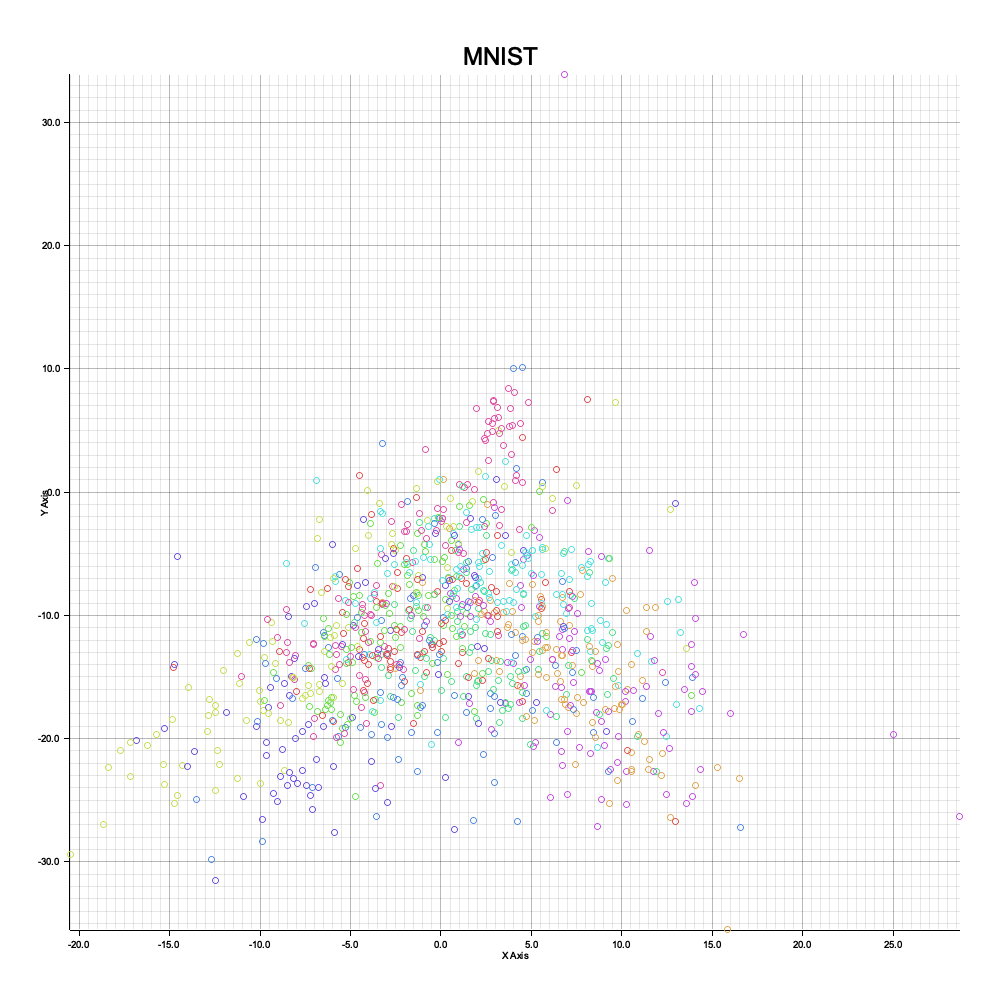
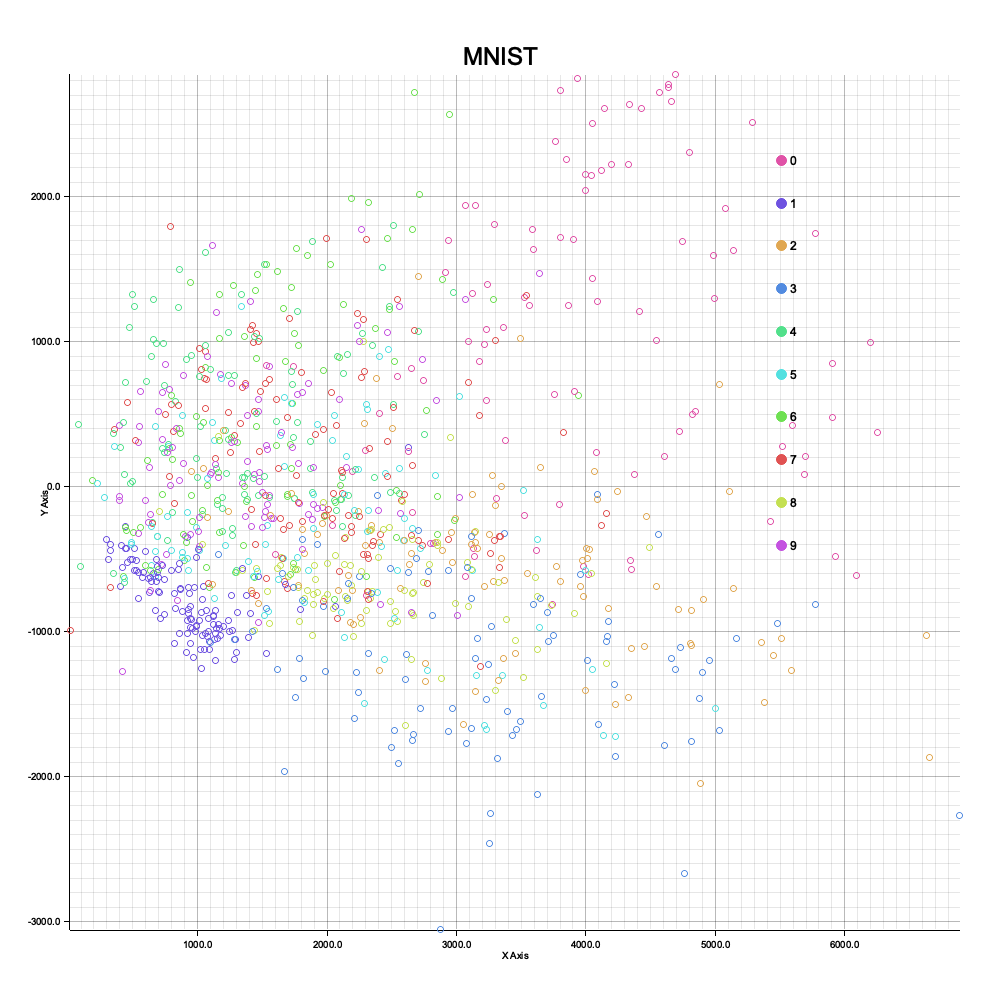
added legend to the mnist plot

Changed region(s): [[0.031, 0.062, 0.961, 0.961], [0.031, 0.186, 0.062, 0.217]]

diff --git a/src/chart.rs b/src/chart.rs
@@ -1,7 +1,11 @@
 use crate::utils::*;
 use burn::prelude::*;
 use hsl::HSL;
-use plotters::prelude::*;
+use plotters::{
+    prelude::*,
+    style::text_anchor::{HPos, Pos, VPos},
+};
+use std::collections::HashSet;
 
 /// The default caption for the chart
 const CAPTION: &str = "fast-umap";
@@ -176,8 +180,6 @@ where
     Ok(())
 }
 
-use plotters::prelude::*;
-
 pub fn chart_vector(
     data: Vec<Vec<Float>>,
     labels: Option<Vec<String>>,
@@ -189,55 +191,48 @@ pub fn chart_vector(
     let root = BitMapBackend::new(&config.path, (config.width, config.height)).into_drawing_area();
     root.fill(&WHITE).unwrap();
 
-    // Define min and max for x and y axes
+    // Calculate min and max for x and y axes
     let min_x = data
         .iter()
-        .flat_map(|v| v.iter().step_by(2)) // x values are at even indices
+        .flat_map(|v| v.iter().step_by(2))
         .cloned()
         .min_by(|a, b| a.partial_cmp(b).unwrap())
         .unwrap() as Float;
-
     let max_x = data
         .iter()
-        .flat_map(|v| v.iter().step_by(2)) // x values are at even indices
+        .flat_map(|v| v.iter().step_by(2))
         .cloned()
         .max_by(|a, b| a.partial_cmp(b).unwrap())
         .unwrap() as Float;
-
     let min_y = data
         .iter()
-        .flat_map(|v| v.iter().skip(1).step_by(2)) // y values are at odd indices
+        .flat_map(|v| v.iter().skip(1).step_by(2))
         .cloned()
         .min_by(|a, b| a.partial_cmp(b).unwrap())
         .unwrap() as Float;
-
     let max_y = data
         .iter()
-        .flat_map(|v| v.iter().skip(1).step_by(2)) // y values are at odd indices
+        .flat_map(|v| v.iter().skip(1).step_by(2))
         .cloned()
         .max_by(|a, b| a.partial_cmp(b).unwrap())
         .unwrap() as Float;
 
-    // Assign unique HSL colors to each label
+    // Assign colors to unique labels if provided
     let mut label_colors: Vec<(String, RGBColor)> = Vec::new();
     if let Some(labels) = labels.clone() {
-        let unique_labels: Vec<String> = labels.iter().cloned().collect();
-        let unique_labels = unique_labels
+        let unique_labels: Vec<String> = labels
             .into_iter()
-            .collect::<std::collections::HashSet<String>>()
+            .collect::<HashSet<String>>()
             .into_iter()
-            .collect::<Vec<String>>();
-
+            .collect();
         for (i, label) in unique_labels.iter().enumerate() {
-            // Generate unique color using HSL, keeping saturation and lightness constant
-            let hue = i as f64 * 360.0 / unique_labels.len() as f64; // Evenly distribute hues across the spectrum
+            let hue = i as f64 * 360.0 / unique_labels.len() as f64; // Even distribution of hues
             let color = HSL {
                 h: hue,
                 s: 0.7,
                 l: 0.6,
             }
             .to_rgb();
-
             label_colors.push((label.clone(), RGBColor(color.0, color.1, color.2)));
         }
     }
@@ -251,7 +246,7 @@ pub fn chart_vector(
         .build_cartesian_2d(min_x..max_x, min_y..max_y)
         .unwrap();
 
-    // Configure the mesh (axes)
+    // Configure and draw the mesh (axes)
     chart
         .configure_mesh()
         .x_desc("X Axis")
@@ -261,21 +256,34 @@ pub fn chart_vector(
         .draw()
         .unwrap();
 
-    // Draw the data points and labels
+    // Store series for later adding to the legend
+    let mut series_list: Vec<(String, Vec<(f64, f64)>, RGBColor)> = Vec::new();
+
+    // Draw data points and labels
     chart
         .draw_series(data.iter().enumerate().map(|(i, values)| {
-            let label = match labels.clone() {
-                Some(labels) => labels.get(i).unwrap().clone(),
-                None => "".into(),
-            };
+            let label = labels
+                .clone()
+                .map(|l| l.get(i).cloned())
+                .flatten()
+                .unwrap_or_else(|| "".into());
             let color = label_colors
                 .iter()
                 .find(|(l, _)| *l == label)
-                .map(|(_, color)| *color)
+                .map(|(_, c)| *c)
                 .unwrap_or(RED);
 
-            // Create a group to hold both the circle and label
-            let circle = Circle::new(
+            // Store series data for the legend
+            if !label.is_empty() {
+                let series_data = series_list.iter_mut().find(|(l, _, _)| *l == label);
+                match series_data {
+                    Some((_, series_points, _)) => series_points.push((values[0], values[1])),
+                    None => series_list.push((label.clone(), vec![(values[0], values[1])], color)),
+                }
+            }
+
+            // Draw circle for each point
+            Circle::new(
                 (values[0], values[1]),
                 3,
                 ShapeStyle {
@@ -283,29 +291,60 @@ pub fn chart_vector(
                     filled: false,
                     stroke_width: 1,
                 },
-            );
-
-            // Create the label text
-            let label_text = if !label.is_empty() {
-                Text::new(
-                    label.clone(),
-                    (values[0] + 0.2, values[1] + 0.2), // Offset label slightly for clarity
-                    ("sans-serif", 15).into_font(),
-                )
-            } else {
-                Text::new("".into(), (0.0_f64, 0.0_f64), ("sans-serif", 1).into_font())
-                // Empty label to avoid errors
-            };
-
-            // Return both the circle and the label as a group of elements
-            // (circle, label_text)
-            circle
+            )
         }))
         .unwrap();
 
-    // Draw the legend (if labels are available)
+    // Add the legend manually
     if labels.is_some() {
-        chart.configure_series_labels().draw().unwrap();
+        // Sort the series list alphabetically by label
+        series_list.sort_by(|a, b| {
+            let a = a.0.parse::<usize>().unwrap();
+            let b = b.0.parse::<usize>().unwrap();
+            a.cmp(&b)
+            // a.0.cmp(&b.0)
+        });
+
+        let spacing_y = (max_y - min_y) / (series_list.len() * 2) as f64;
+
+        // Define the starting position for the legend
+        let mut legend_position = (min_x + (max_x - min_x) * 0.8, max_y - (max_y - min_y) * 0.1);
+        // let spacing = 10.0; // Increase the spacing
+        let size = 5.0; // Make the circles slightly larger
+        let font_size = 15.0;
+
+        for (label, _, color) in series_list {
+            // Draw a colored circle for each label in the legend
+            chart
+                .draw_series(std::iter::once(Circle::new(
+                    legend_position,
+                    size,
+                    ShapeStyle {
+                        color: color.into(),
+                        filled: true,
+                        stroke_width: 1,
+                    },
+                )))
+                .unwrap();
+
+            let style = TextStyle {
+                font: ("sans-serif", font_size).into_font(),
+                color: BLACK.to_backend_color(),
+                pos: Pos::new(HPos::Left, VPos::Center),
+            };
+
+            // Draw the label text next to the circle
+            chart
+                .draw_series(std::iter::once(Text::new(
+                    label,
+                    (legend_position.0 + spacing_y / 4.0, legend_position.1),
+                    style,
+                )))
+                .unwrap();
+
+            // Move the position for the next legend item downwards
+            legend_position.1 -= spacing_y;
+        }
     }
 
     // Save the chart to file

diff --git a/README.md b/README.md
@@ -20,10 +20,10 @@ See [documentation](https://docs.rs/crate/fast-umap/latest) for more.
 
 - [x] Add MNIST dataset example. add intermediary plots.
 - [ ] move charting into a feature.
-- [ ] add labels in the plots.
+- [x] add labels in the plots.
 - [x] Implement batches, **accumulated gradient**
 - [ ] precompute inital local fitting with the PCA
-- [ ] implement distances in CubeCL kernels
+- [x] implement distances in CubeCL kernels
 - [ ] Create testbench to compare different hyper parameters (`patience` vs `n_features` vs `epochs` etc.)
 
 ## Installation
